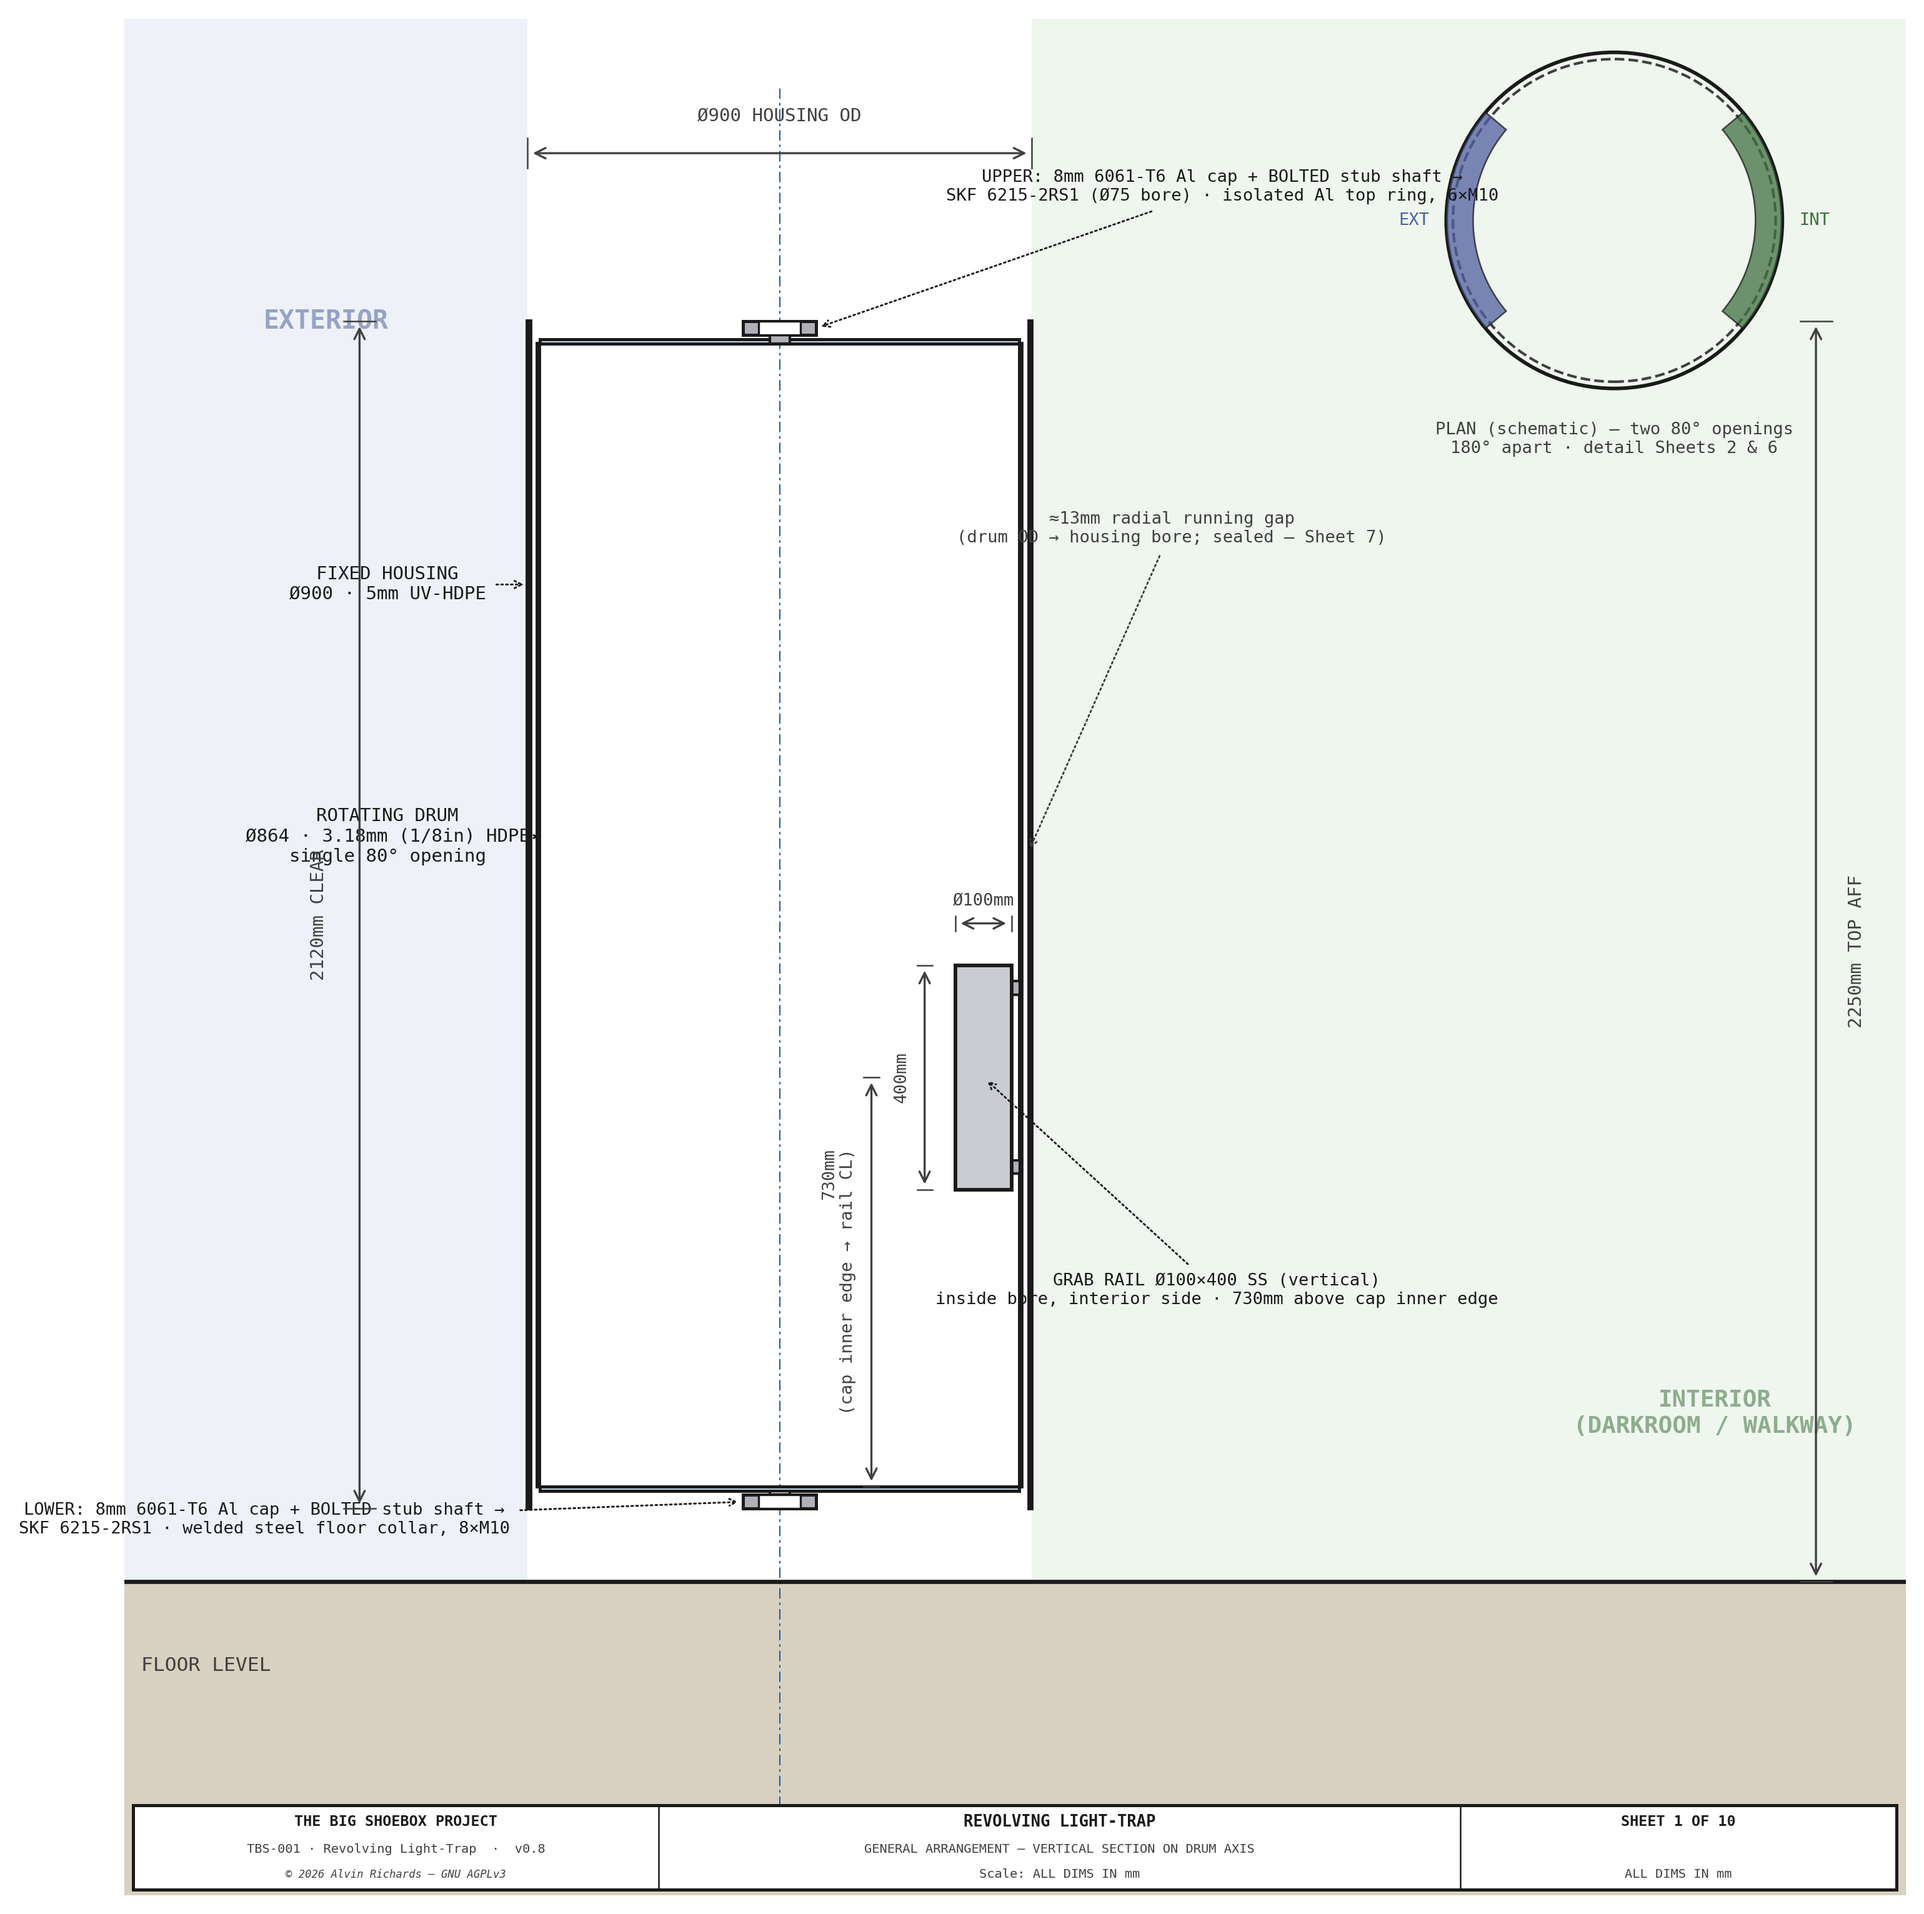
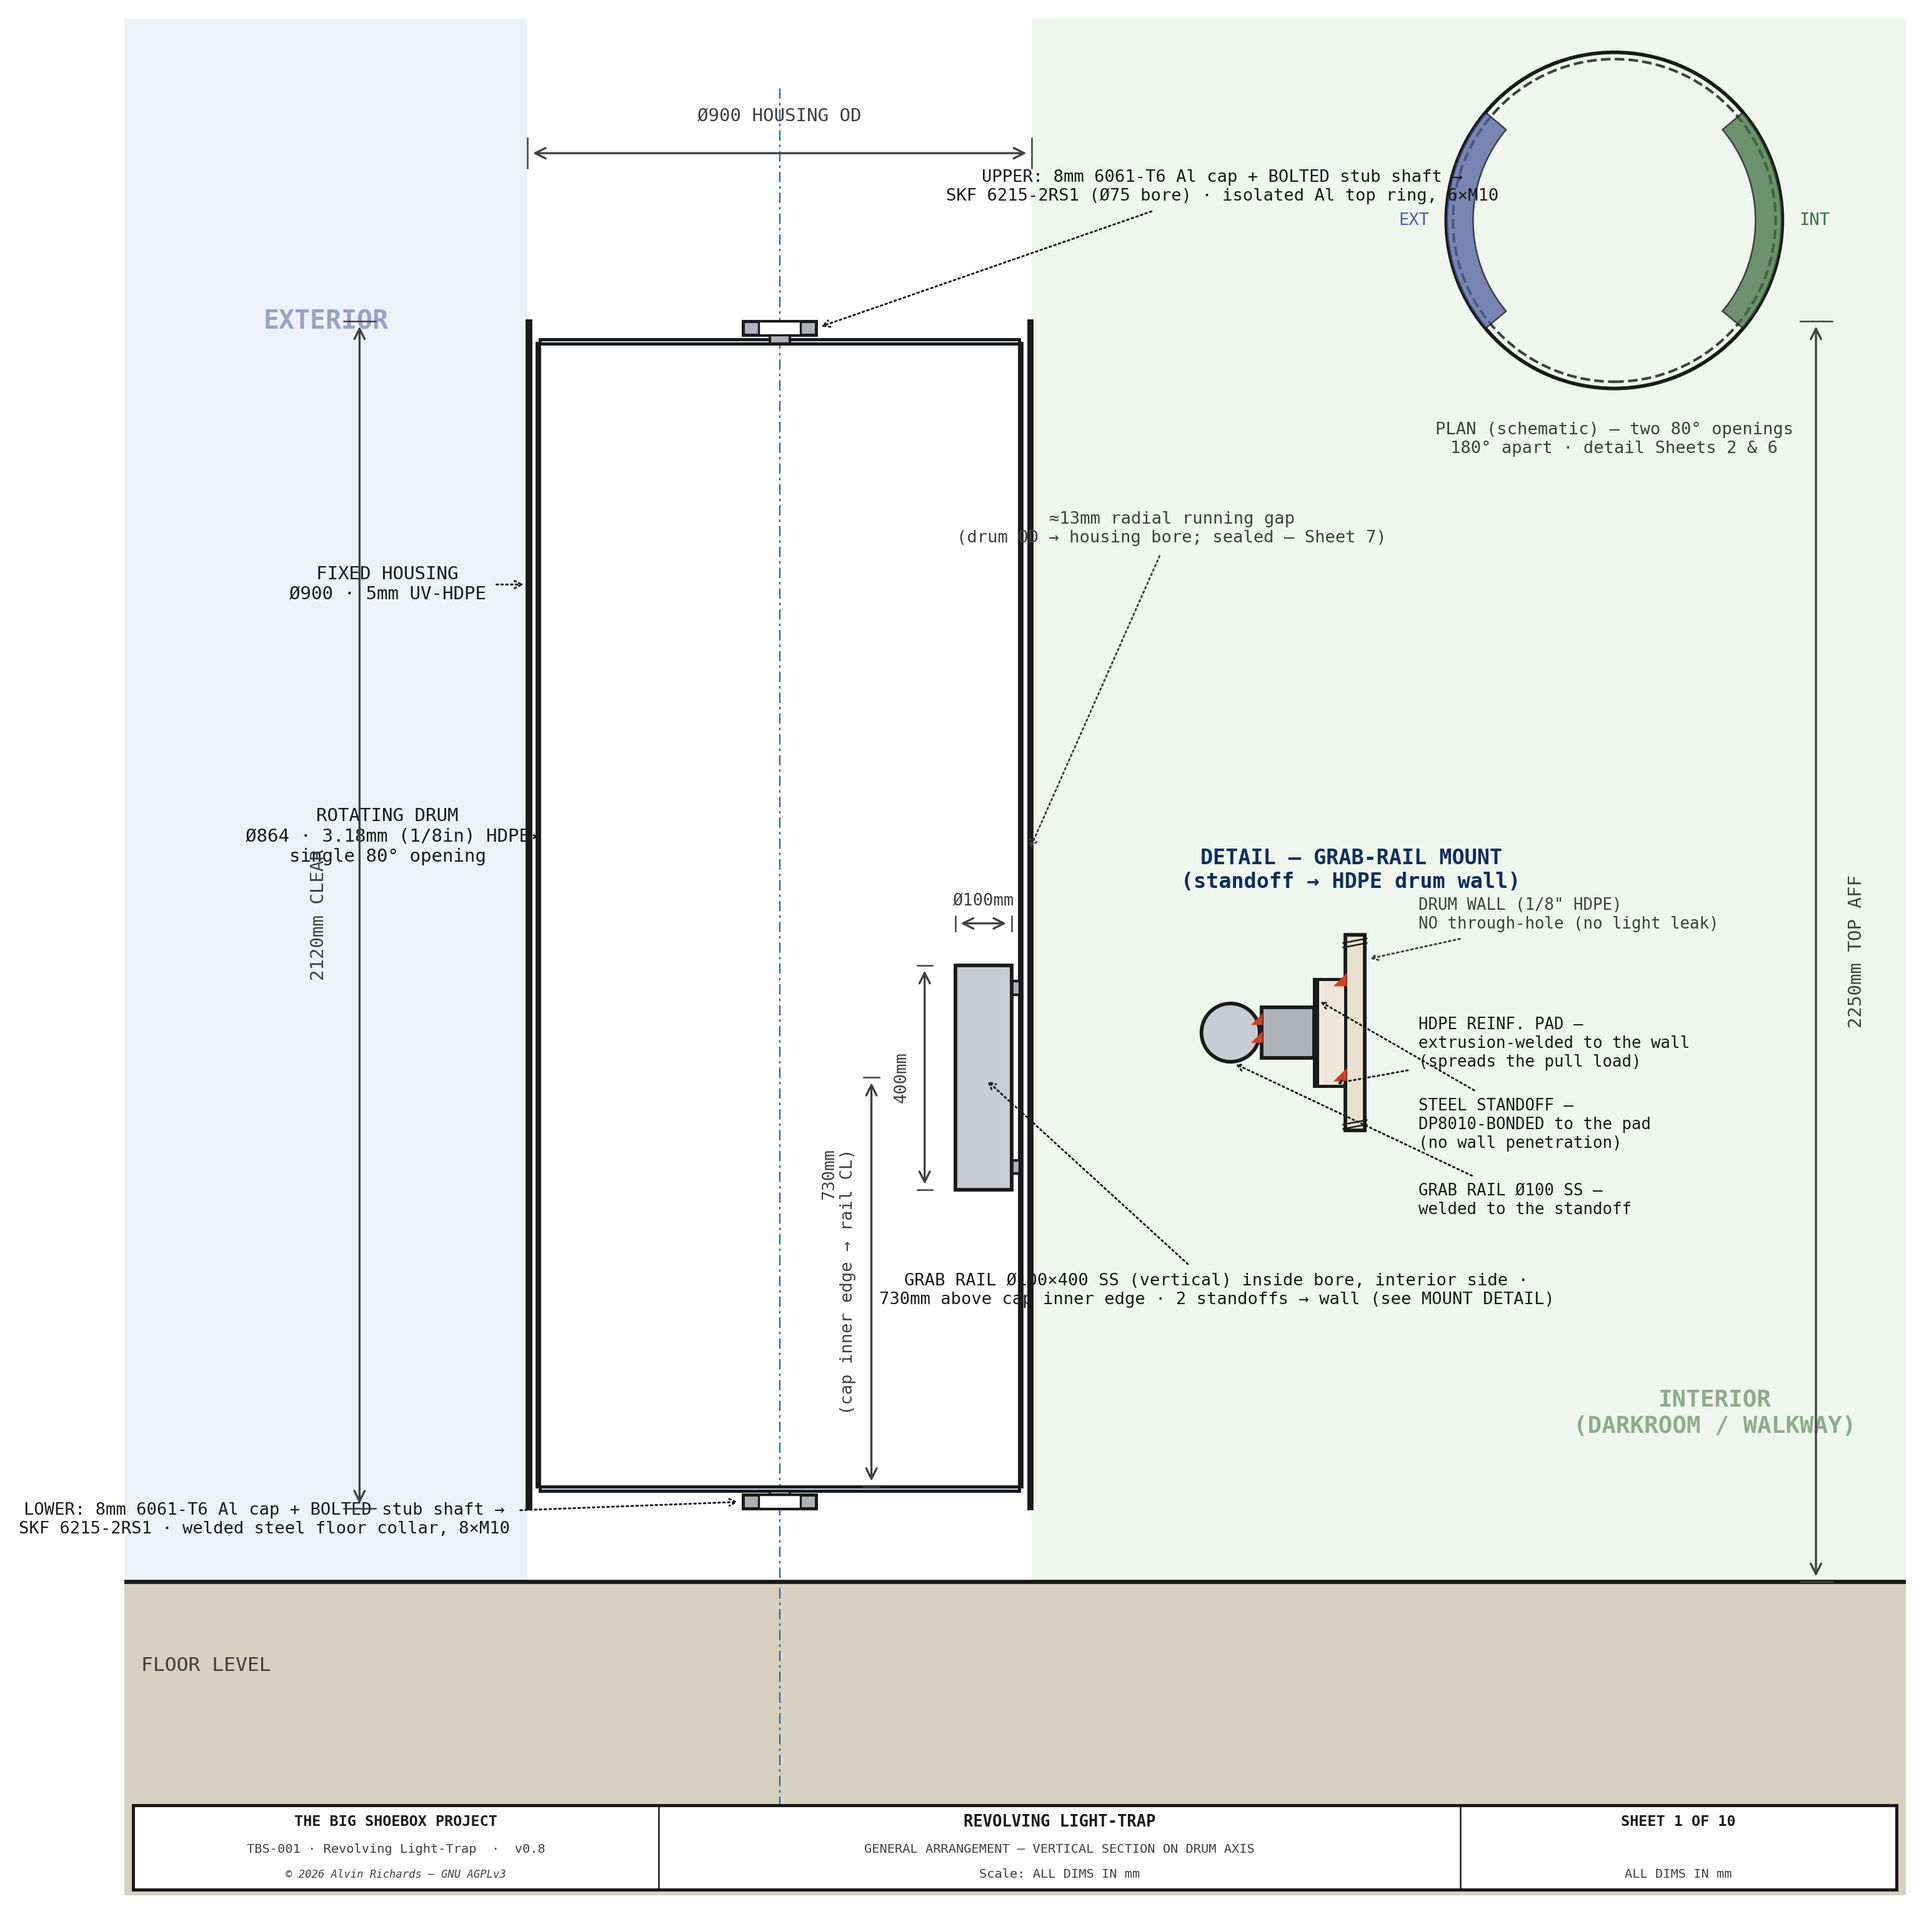
lighttrap: grab-rail mount detail on Sheet 1 (bonded standoff, no wall penetration)
Adds a MOUNT DETAIL showing how the interior grab rail secures to the drum: the steel
standoff is STRUCTURAL-BONDED (3M DP8010) to an extrusion-welded HDPE reinforcement pad,
and the rail welds to the standoff (steel-steel). No fastener pierces the drum wall
(preserves the no-through-hole / no-light-leak requirement). Corrects the impossible
'welded bracket' (can't weld steel to HDPE) in the drawing + report SS4.4/SS5. RELEASE noted.

Changed region(s): [[0.4677, 0.4342, 0.8418, 0.6823]]

diff --git a/src/generators/generate_lighttrap_diagram.py b/src/generators/generate_lighttrap_diagram.py
@@ -241,12 +241,12 @@ def draw_sheet1():
     GZ0, GZ1 = GRAB_Z - GRAB_L / 2, GRAB_Z + GRAB_L / 2
     draw_rect(ax, GX - GRAB_D / 2, GZ0, GRAB_D, GRAB_L, lw=1.4,
               fc="#C9CCD2", zorder=9)
-    for zb in (GZ0 + 40, GZ1 - 40):      # welded bracket stubs to the drum wall
+    for zb in (GZ0 + 40, GZ1 - 40):      # 2 standoff brackets → drum wall (bond+rivet, see MOUNT DETAIL)
         draw_rect(ax, GX + GRAB_D / 2, zb - 12, DI_R - (GX + GRAB_D / 2), 24,
                   lw=1.0, fc=C_STEEL, zorder=8)
     leader(ax, GX, GRAB_Z,
            HO_R + 330, GRAB_Z - 380,
-           f"GRAB RAIL Ø{GRAB_D}×{GRAB_L} SS (vertical)\ninside bore, interior side · {GRAB_Z - Z_CAP_B:.0f}mm above cap inner edge",
+           f"GRAB RAIL Ø{GRAB_D}×{GRAB_L} SS (vertical) inside bore, interior side ·\n{GRAB_Z - Z_CAP_B:.0f}mm above cap inner edge · 2 standoffs → wall (see MOUNT DETAIL)",
            fs=6.5, color=C_OUT, ha="center", arrow_style="->", font=FONT)
     draw_dim_v(ax, GX - GRAB_D / 2 - 55, GZ0, GZ1, f"{GRAB_L}mm", offset=45,
                fs=6.5, font=FONT)
@@ -254,6 +254,28 @@ def draw_sheet1():
                offset=45, fs=6.5, font=FONT)
     draw_dim_v(ax, GX - GRAB_D / 2 - 150, Z_CAP_B, GRAB_Z, f"{GRAB_Z - Z_CAP_B:.0f}mm\n(cap inner edge → rail CL)",
                offset=45, fs=6.5, font=FONT)
+
+    # ── DETAIL — grab-rail standoff → drum wall (you can't weld steel to HDPE) ────
+    hdx, hdz = HO_R + 560, 980
+    ax.text(hdx + 10, hdz + 250, "DETAIL — GRAB-RAIL MOUNT\n(standoff → HDPE drum wall)", ha="center",
+            va="bottom", fontsize=8, color=TITLE_COL, fontweight="bold", **FONT, zorder=15)
+    dwT = 34                                                                            # HDPE drum wall (exaggerated)
+    draw_rect(ax, hdx, hdz - 175, dwT, 350, fc=C_LT_DRUM, lw=1.4, zorder=6)             # drum wall
+    for zz in (hdz - 168, hdz + 156):                                                   # break (wall continues)
+        for dz in (0, 8):
+            ax.plot([hdx - 4, hdx + dwT + 4], [zz + dz - 4, zz + dz + 4], color=C_OUT, lw=0.6, zorder=9)
+    draw_rect(ax, hdx - 50, hdz - 95, 50, 190, fc="#EDE7DA", lw=1.2, zorder=6)          # HDPE reinforcement pad (interior)
+    for wz in (hdz - 85, hdz + 85):                                                     # extrusion-weld beads (pad → wall, HDPE↔HDPE)
+        ax.add_patch(mpatches.Polygon([(hdx, wz), (hdx, wz + 16), (hdx - 16, wz)], closed=True, fc="#CC4422", ec="#CC4422", zorder=8))
+    draw_rect(ax, hdx - 56, hdz - 95, 6, 190, fc=C_GASKT, lw=1.2, zorder=7)             # DP8010 STRUCTURAL BOND film (bracket → pad)
+    draw_rect(ax, hdx - 150, hdz - 45, 94, 90, fc=C_STEEL, lw=1.4, zorder=6)            # steel standoff bracket
+    draw_circle(ax, hdx - 205, hdz, 52, lw=1.4, color=C_OUT, fill=True, fc="#C9CCD2", zorder=8)  # grab rail Ø100 (welded to bracket)
+    for wz in (hdz - 16, hdz + 16):                                                     # weld (rail → bracket, steel↔steel)
+        ax.add_patch(mpatches.Polygon([(hdx - 150, wz), (hdx - 150, wz + 13), (hdx - 163, wz)], closed=True, fc="#CC4422", ec="#CC4422", zorder=9))
+    leader(ax, hdx + dwT, hdz + 130, hdx + 130, hdz + 210, "DRUM WALL (1/8\" HDPE)\nNO through-hole (no light leak)", fs=6.2, color=C_DIM, ha="left", arrow_style="->", font=FONT)
+    leader(ax, hdx - 25, hdz - 92, hdx + 130, hdz - 20, "HDPE REINF. PAD —\nextrusion-welded to the wall\n(spreads the pull load)", fs=6.2, color=C_OUT, ha="left", arrow_style="->", font=FONT)
+    leader(ax, hdx - 53, hdz + 60, hdx + 130, hdz - 165, "STEEL STANDOFF —\nDP8010-BONDED to the pad\n(no wall penetration)", fs=6.2, color=C_OUT, ha="left", arrow_style="->", font=FONT)
+    leader(ax, hdx - 205, hdz - 52, hdx + 130, hdz - 300, f"GRAB RAIL Ø{GRAB_D} SS —\nwelded to the standoff", fs=6.2, color=C_OUT, ha="left", arrow_style="->", font=FONT)
 
     # ── Dimensions ───────────────────────────────────────────────────────────
     draw_dim_h(ax, HO_L, HO_R, Z_TOP + 300, f"Ø{DRUM_D} HOUSING OD",

diff --git a/light-trap-selection.md b/light-trap-selection.md
@@ -151,7 +151,7 @@ The light lock is a **fixed housing + single-opening C-shell drum** (no internal
 
 | Item | Specification |
 |------|--------------|
-| Entry handle | 100mm Ø × 400mm SS round grab rail, interior face only, at 900mm height — welded bracket, no through-hole in drum wall |
+| Entry handle | 100mm Ø × 400mm SS round grab rail, interior face only, at 900mm height — welded to a steel standoff that is **structural-bonded (3M DP8010) to an extrusion-welded HDPE reinforcement pad**; no fastener pierces the drum wall (no through-hole, no light leak). Mount detail on §9 Sheet 1 |
 | Panel bolts | 8 × M10 flush-head hex bolts (lower collar) + 6 × M10 (upper ring), stainless |
 | Lap-joint fasteners | Shell→cap and housing→frame joints: rolled 25×25×3 6061-T6 Al rim-angle + **1/8" (Ø3.18mm) 18-8 SS blind rivets** @ ~60mm (drill Ø3.3 / #30) + 3M DP8010 structural bond (light-tight lap). Shell→cap grip 6.2mm → [McMaster 97525A425](https://www.mcmaster.com/97525A425/); housing→frame grip 8.0mm → [McMaster 97525A435](https://www.mcmaster.com/97525A435/). DP8010 wets the mandrel hole for light-tightness. |
 
@@ -223,7 +223,7 @@ Custom fabrication is comparable to or below commercial alternatives while provi
 
 - The drum is installed into the hinged panel before the panel is hung. The combined panel + drum weight (~196 kg; itemized breakdown in [Hinged Panel Report §2.4–2.5](hinged-panel-report.md) and [Weight Distribution §3.2](weight-distribution-report.md)) is beyond a two-person lift, so hanging requires an engine crane or gantry hoist. The pivot post, bearings, and cage are separate transport hardware, not carried in the panel + drum lift.
 - The lower bearing collar is bolted to the panel bottom rail with 8 × M10 stainless bolts. The upper bearing housing is bolted to the panel top rail with 6 × M10. Both connections can be disassembled with standard hex keys for maintenance.
-- The drum rotates freely in both directions; there is no rotation limit. The exterior face carries no handle — the operator pushes the bare drum wall to enter. An interior grab rail (100mm Ø SS, welded bracket, no through-hole) at 900mm height allows the operator to pull the drum closed from inside and brace during exit. This eliminates any through-bolt penetration of the drum wall on the exterior face, removing a potential light leak path.
+- The drum rotates freely in both directions; there is no rotation limit. The exterior face carries no handle — the operator pushes the bare drum wall to enter. An interior grab rail (100mm Ø SS on a steel standoff **structural-bonded with DP8010 to an extrusion-welded HDPE pad** — no fastener through the wall) at 900mm height allows the operator to pull the drum closed from inside and brace during exit. This eliminates any through-bolt penetration of the drum wall on the exterior face, removing a potential light leak path.
 - Interior safelight (Circuit D, per [Electrical Report](electrical-report.md)) illuminates the drum interior during loading operations, allowing operators to orient themselves in darkness.
 - **Panel latches (×4 Southco C2-33 cam compression latches) are mounted on the interior face of the panel.** This is a deliberate safety design: if the revolving drum jams and prevents normal egress, an operator inside the container can release all four latches independently from the inside and pull the panel inwards. The panel swings open about its left-edge pivot post, clearing the door opening. Latches appear as hidden (dashed) features in the exterior elevation drawing (Sheet 1).
 - **Stepped panel construction:** The thick center zone houses the drum; the thinner corner zones sit flush with the container walls. Zone thicknesses, the step-transition positions, and the frame/skin build-up are specified in the [Hinged Panel Report](hinged-panel-report.md).

diff --git a/RELEASE.md b/RELEASE.md
@@ -62,8 +62,9 @@ file** — a release must not ship without a changelog entry:
   — 1/8″ stainless-backed, 0.008″ black nylon, 7/8″ trim, $27.02/7 ft) **riveted to the rotating drum** OD at
   93° spacing; the count comes from a Sheet 7 light-path study (93° ≤ the 100° housing material arc, so a
   strip always seals each arc between the openings at every rotation). Sold by the foot → one continuous piece
-  per line (no joint). Sheet 7's seal detail + three-position plans now carry the study. Full parts/cost + weight/CG
-  + 3D-model cascade tracked in `TODO.md`. *(In progress.)*
+  per line (no joint). Sheet 7's seal detail + three-position plans now carry the study.
+  **Blueprint detailing pass (review round):** bolts now use the section convention (shank + head + hex/weld-nut/tapped, `draw_bolt()`) on Sheets 5 & 10; frame RHS members drawn as HOLLOW cut sections (Sheet 8 plan posts + a dimensioned 50×50×3 / 100×50×3 section inset, `tube_rect()`); the running-gap brush added to Sheet 4 (staggered below the cap lap, clearing the shell→cap rivets); Sheet 10 details A/B rivets redrawn radial (were circles) + ring→beam / cap→flange bolts shown; and a **grab-rail mount detail** on Sheet 1 (steel standoff DP8010-bonded to an extrusion-welded HDPE pad — NO through-hole, correcting the impossible 'welded to HDPE' bracket; report §4 updated).
+  Full parts/cost + weight/CG + 3D-model cascade tracked in `TODO.md`. *(In progress.)*
 - **Film-plane corner wall-mounts + IBC foot ↔ tray clash (branch `film-plane-left-brackets`).** Resolved
   the film-plane left-bracket + tray/IBC cluster. **Tray clash:** the two FRONT IBC floor feet were shifted
   outboard (derived from the tray edge) so their plate + anchors clear the processing-tray basin — the plate
